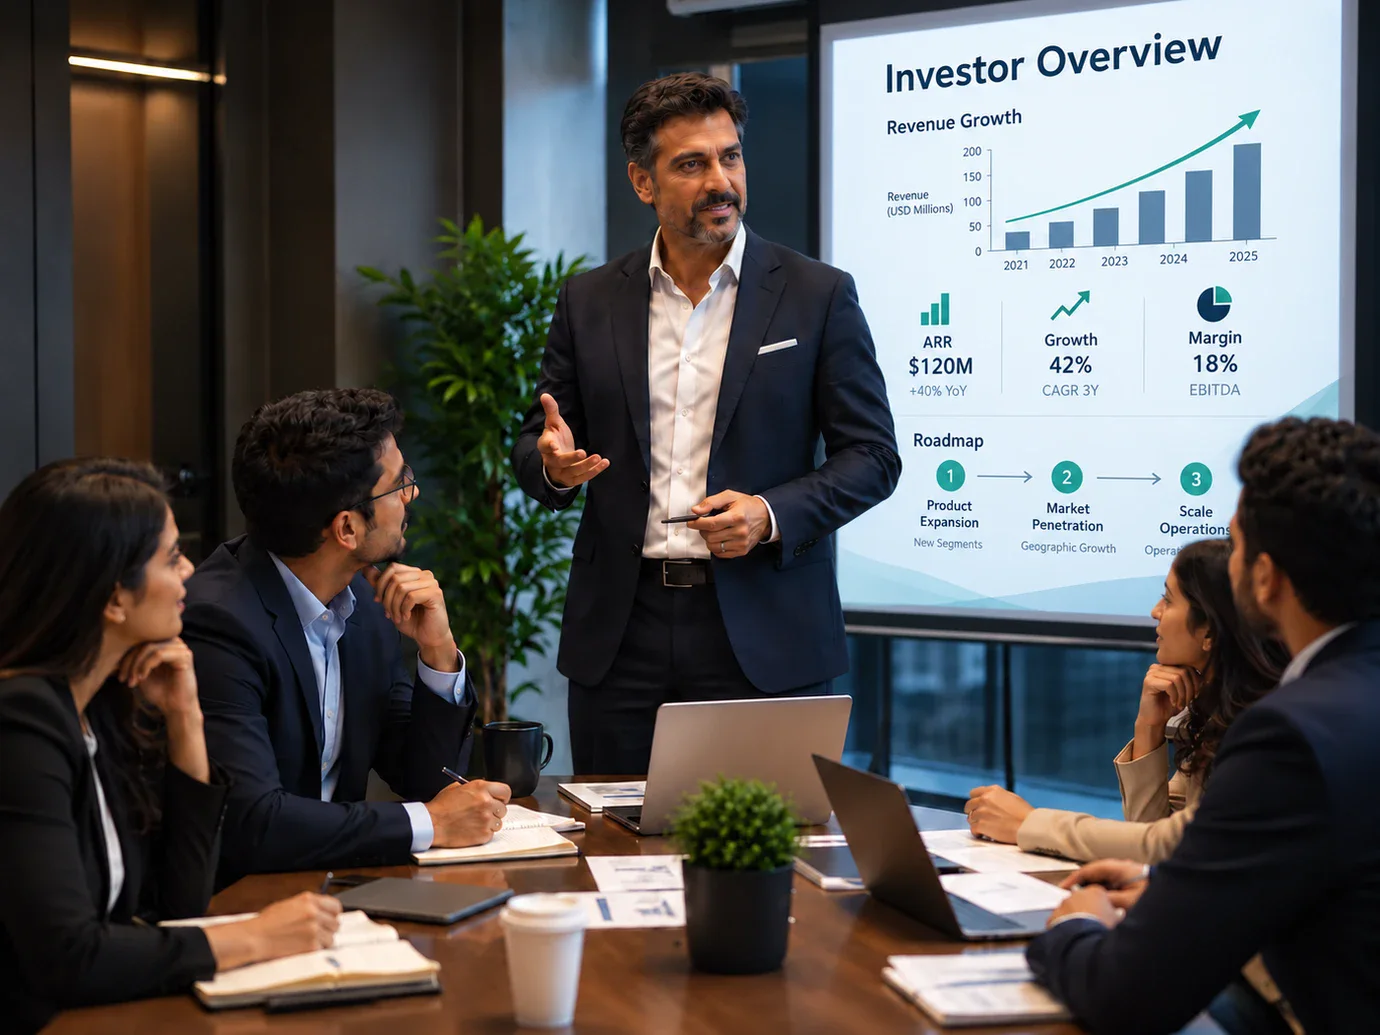
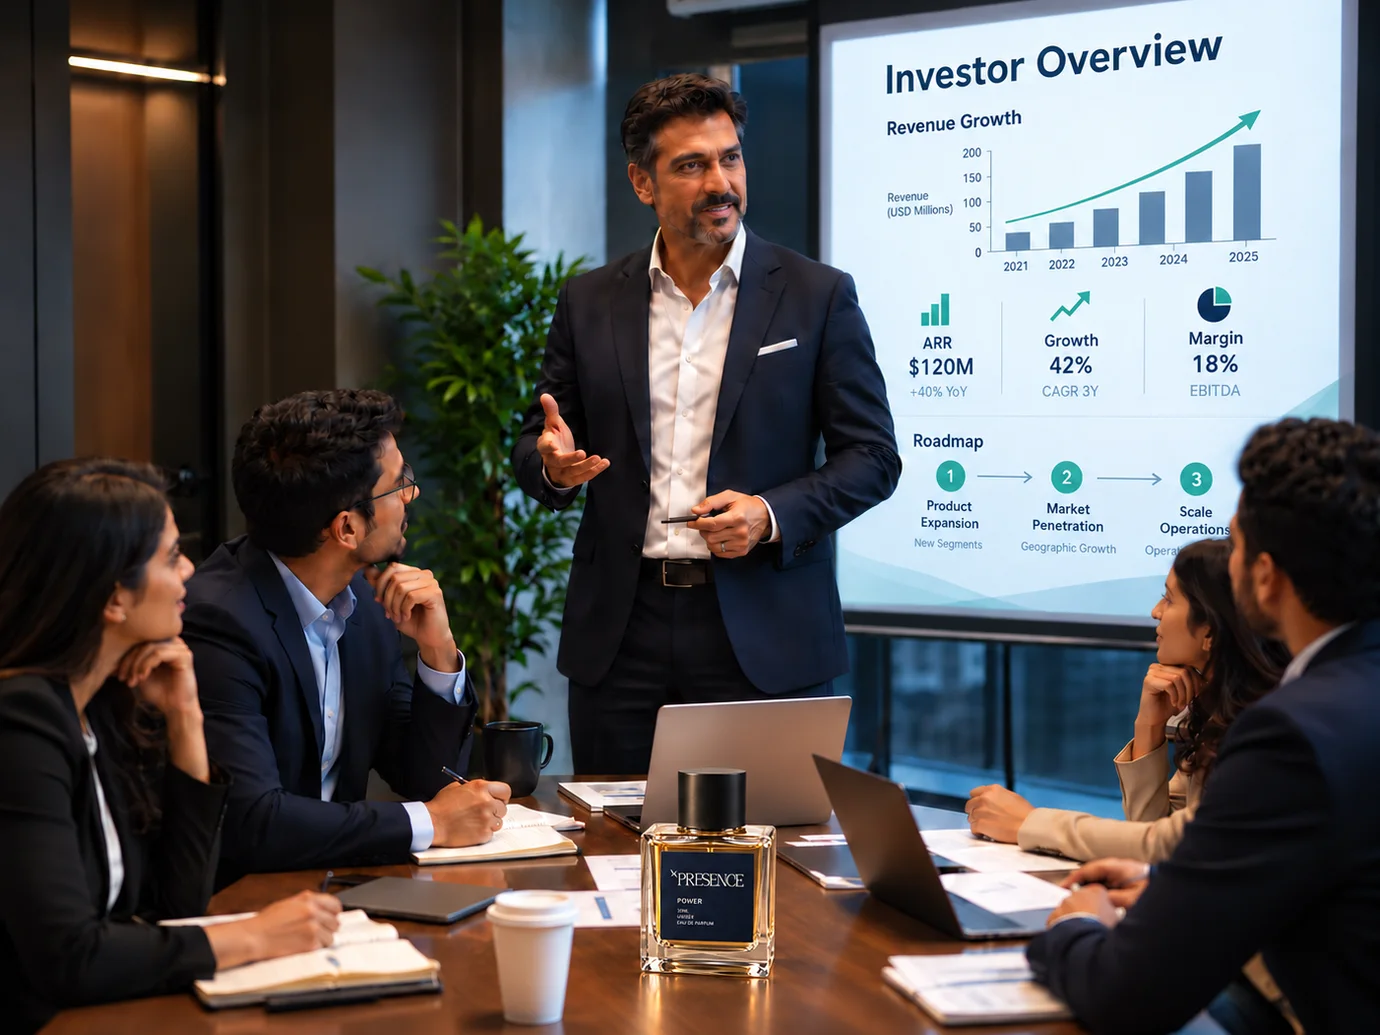
Finder Investor meet: new images with Power on the table

diff --git a/index.html b/index.html
@@ -2746,7 +2746,7 @@ body{background:var(--tile-a);color:var(--body)}
       moment: [
         { k: 'workday', t: 'Team meeting',    p: 'focus',  img: 'assets/finder-team-meeting.webp', imgM: 'assets/finder-team-meeting-mobile.webp',      alt: 'Four colleagues around a laptop in a meeting, Focus on the table', why: 'Likeability that invites collaboration, for the meeting where you want everyone on your side.' },
         { k: 'networking', t: 'Client dinner', p: 'warmth', img: 'assets/finder-event-networking.webp', alt: 'A woman laughing with colleagues over drinks, Warmth on the table', why: 'Approachable from across the room. Soft florals open first, so people find it easy to start talking.' },
-        { k: 'investor',  t: 'Investor meet', p: 'power',  img: 'assets/finder-investor-meet.webp', imgM: 'assets/finder-investor-meet-mobile.webp',    alt: 'A founder presenting an investor overview to his team', why: 'Credibility before you say a word. Saffron and Turkish rose for the room that decides whether to back you.' },
+        { k: 'investor',  t: 'Investor meet', p: 'power',  img: 'assets/finder-investor-meet.webp', imgM: 'assets/finder-investor-meet-mobile.webp',    alt: 'A founder presenting an investor overview, Power on the table', why: 'Credibility before you say a word. Saffron and Turkish rose for the room that decides whether to back you.' },
         { k: 'boss',      t: 'Meeting your boss', p: 'power', img: 'assets/finder-event-boss.webp',   alt: 'Power on a dresser, a man in a tuxedo fixing his bow tie in the mirror behind it', why: 'Self-advocacy, said calmly. Saffron and amber for the one-to-one where you ask for what you have earned.' }
       ]
     };
